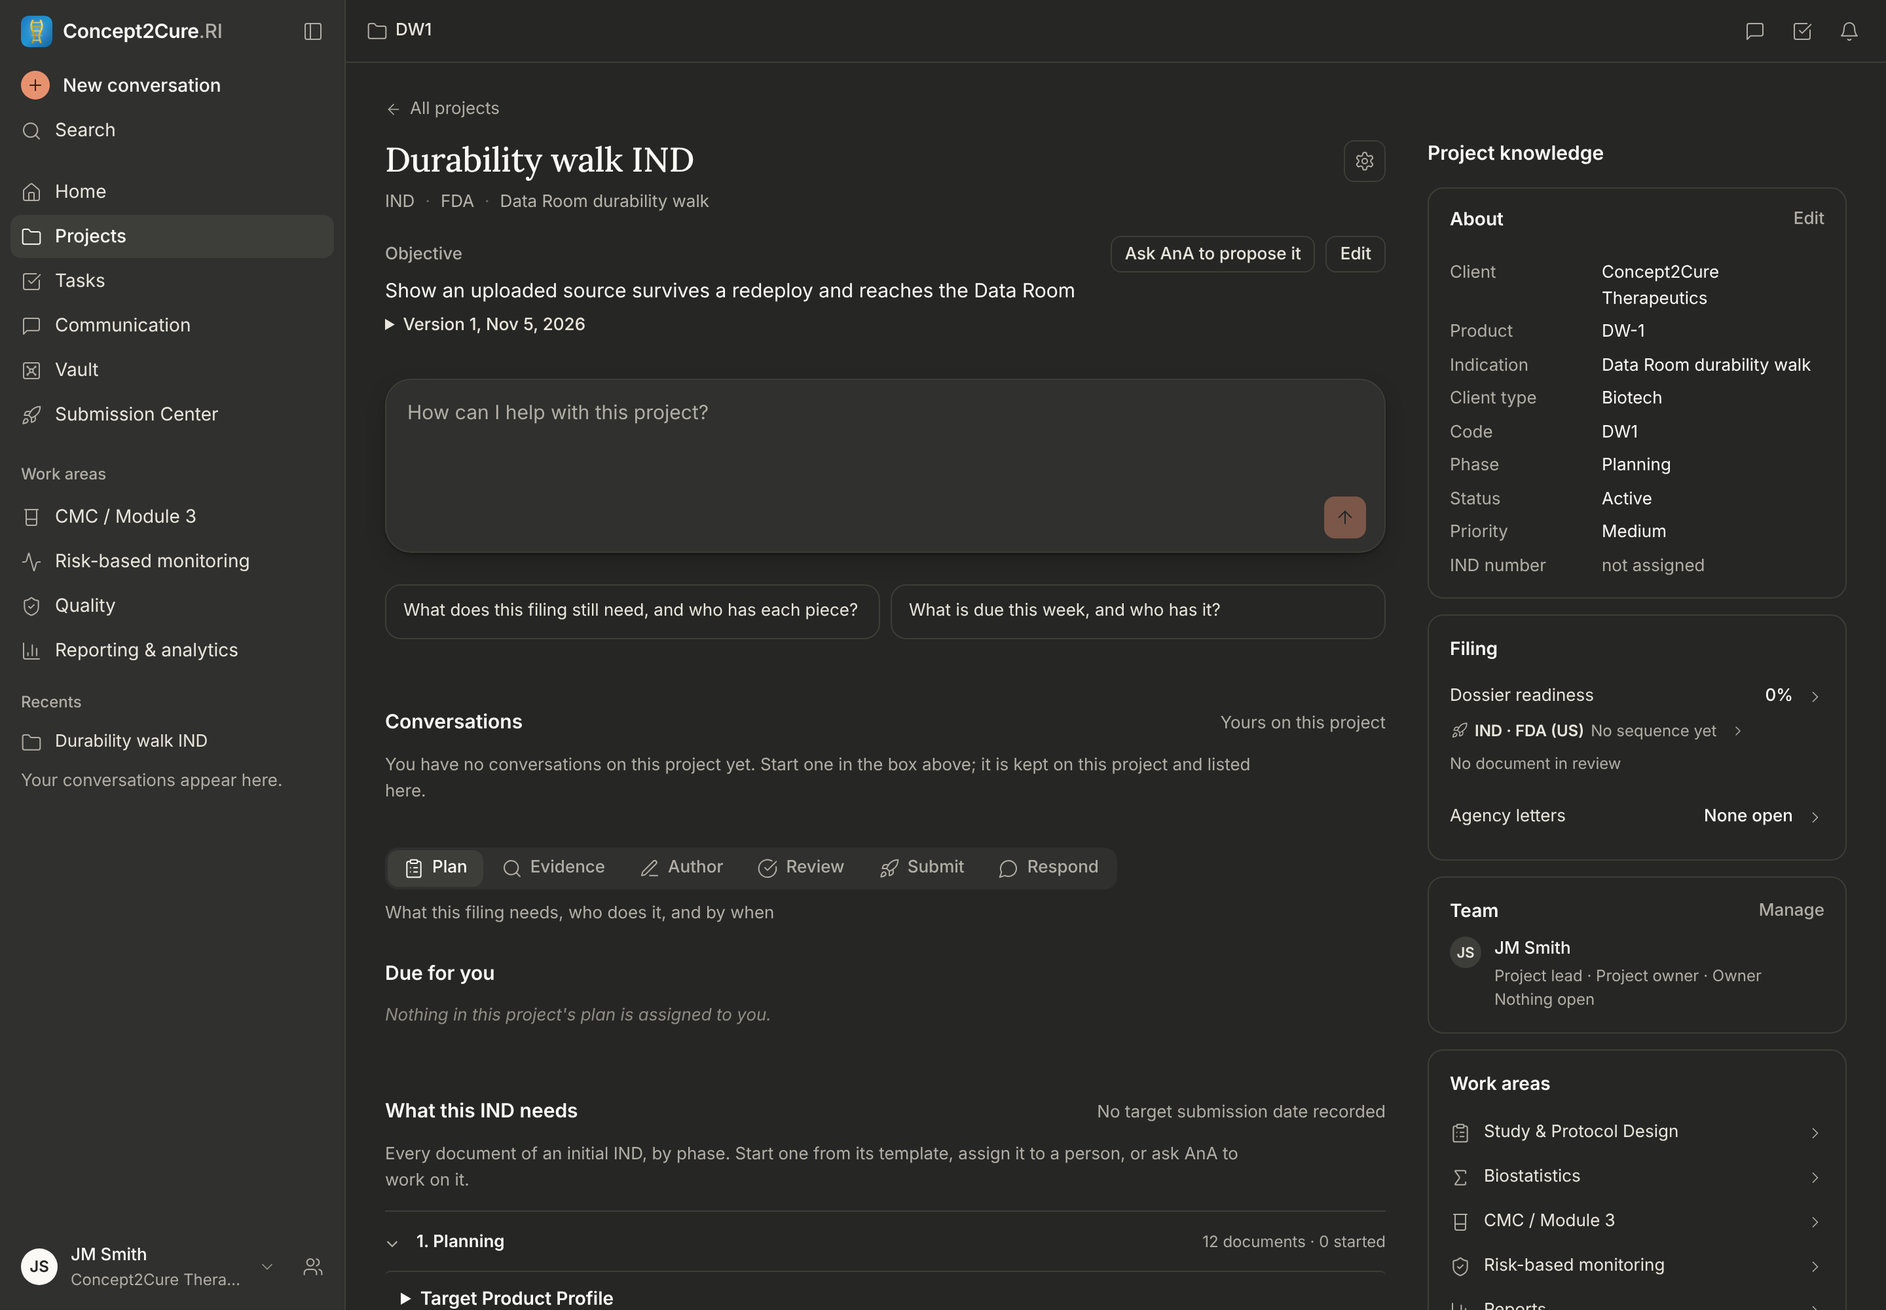
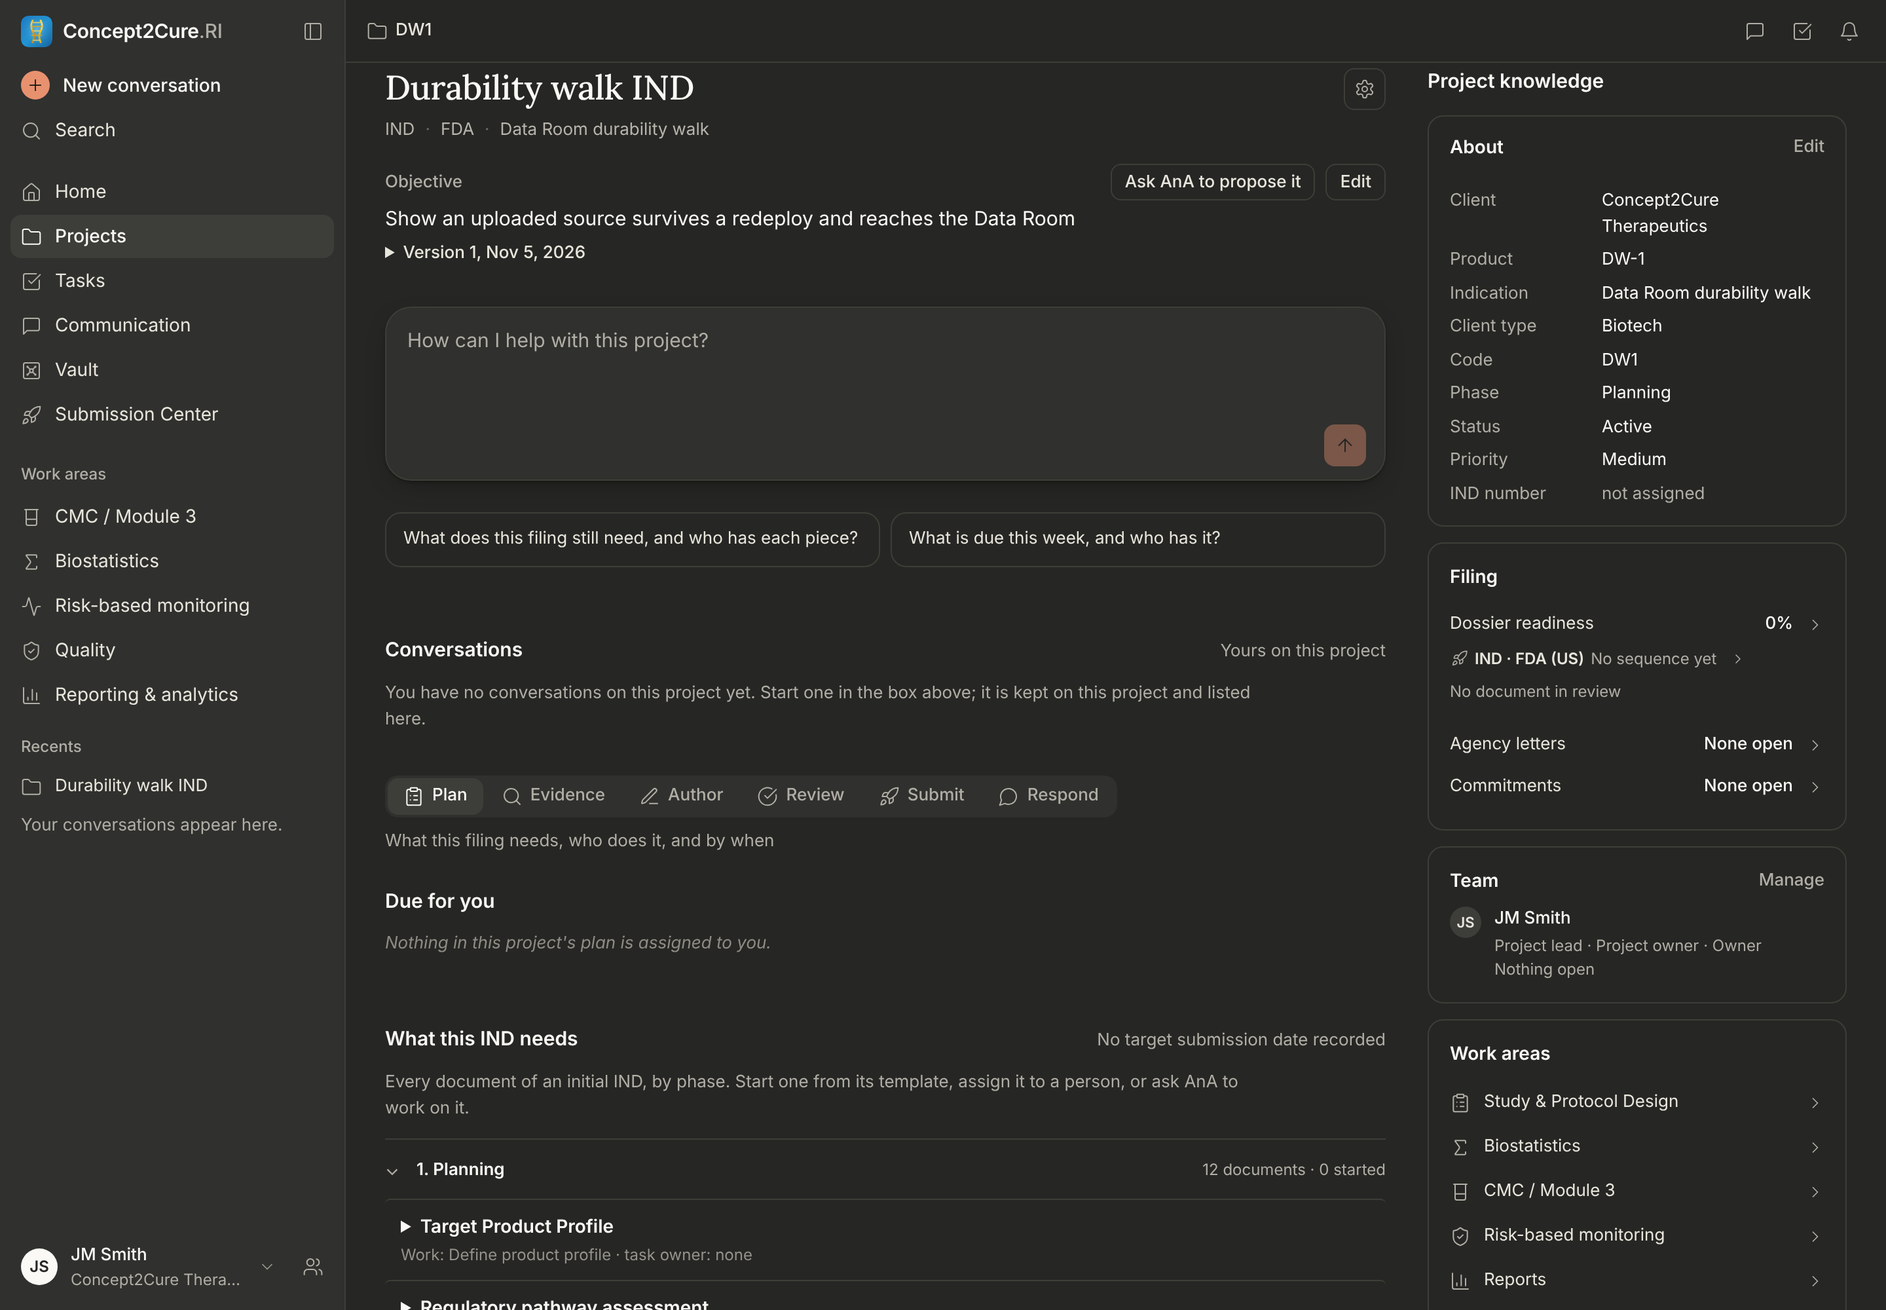
Project page: commitments to the agency on the Filing card; Activity is the Records card's last disclosure (D3-2b)
The second half of D3-2b (D3.md §4.8 items 2 and 7, §4.10):
- The page reads the project's commitments once, by the verified integer project id the route takes. Nothing is
  read until the team read verifies the id. The Filing card says them: none open, or the count, how many are
  overdue (the server's effective status) and the next due date. A failed read says so. The row opens Respond.
- The project's audit feed, already read once by the page, is the Records card's last disclosure, "Activity", on
  every step. It was a section of the Author step. Its rows and recorded reasons are unchanged, and it shows even
  when the records read fails.

The records read itself is lifted by D3-4 with its second reader (Evidence's Protocol), not before.

Tests: 3 red against the first half, green here. 80 of 83 project suites pass. projectHomeStageCss fails as on
trunk. projectCreationDoors.contract and projectDestination fail on trunk without this change; they follow the
Vault session's adb1c00cba and 5144702d21. Typecheck 0 errors, the lint ratchet clean, the gates pass. Walked:
"Commitments: None open" from the real route, and three acts under Activity.

Plan: D3
Completes: client/src/concept2cure/v2/surfaces/ProjectRecords.tsx

Claude-Session: https://claude.ai/code/session_01QoxbLcnW5jPvJSjjKQtvTA

diff --git a/client/src/concept2cure/v2/surfaces/ProjectHome.tsx b/client/src/concept2cure/v2/surfaces/ProjectHome.tsx
@@ -42,6 +42,7 @@ import { sourceReadView } from '@shared/data-room-processing-status';
 import { ProjectTeamCard, ProjectTeamDrawer, PROJECT_TEAM_AUTHORITY_NOTE, useProjectTeam } from './ProjectTeamResponsibilities';
 import type { ProjectTeamMember } from '@shared/project-team';
 import { useAgencyInbox, type CommRow } from './AgencyInbox';
+import { isCommitmentsPayload, type CommitmentsPayload } from './CommitmentRow';
 import { ProjectSide } from './ProjectSide';
 import { ProjectClientReview } from './ProjectClientReview';
 import { ProjectTeamSharing } from './ProjectTeamSharing';
@@ -880,6 +881,18 @@ function teamWork(work: DataState<WorkViewRow>, team: ProjectTeamMember[] | null
 
 /** The Filing card's agency letters (D3-2b, D3.md §4.8 item 2), from the page's one inbox read: open letters and the
  *  next response due. A read not in, or failed, says so. */
+/** The Filing card's commitments to the agency (D3-2b, D3.md §4.8 item 2): open ones, how many are overdue (the
+ *  server's effective status), and the next due date. A read not in, or failed, says so. */
+function commitmentsWords(state: DataState<CommitmentsPayload>): string {
+  if (state.loading) return 'Reading…';
+  if (state.error || !state.data) return 'Could not be read';
+  const open = state.data.commitments.filter(c => !['fulfilled', 'waived', 'released'].includes(c.effectiveStatus));
+  if (!open.length) return 'None open';
+  const overdue = open.filter(c => c.effectiveStatus === 'overdue').length;
+  const next = open.map(c => c.due_date?.slice(0, 10)).filter((day): day is string => Boolean(day)).sort()[0];
+  return `${open.length} open${overdue ? ` · ${overdue} overdue` : ''}${next ? ` · next due ${dayWords(next)}` : ''}`;
+}
+
 function lettersWords(live: { loading: boolean; error?: unknown }, comms: CommRow[]): string {
   if (live.loading) return 'Reading…';
   if (live.error) return 'Could not be read';
@@ -1545,8 +1558,39 @@ const filingCopyIn = (docs: ListRead) => (filingId: string): RowCopy => {
   return editingCopyOf(rows, filingId, (d) => d.filingDocumentId);
 };
 
+/** The project's audit read, every act with its actor, its words and the reason recorded with it (21 CFR 11.10(e)).
+ *  Since D3-2b it is the Records card's last disclosure, "Activity", on every step (it was a section of Author). */
+function ProjectActivity({ activityState }: { activityState: DataState<{ activity: ActivityRow[] }> }) {
+  return (
+    <Anchored
+      state={activityState}
+      loadingText="Loading activity…"
+      errorTitle="Couldn't load project activity"
+      errorHint="The project audit read didn't respond. Sign in and retry, or check the service is reachable."
+      emptyTitle="No recorded activity yet"
+      emptyHint="Audited actions on this project appear here as they happen."
+      isEmpty={(d) => (d.activity ?? []).length === 0}
+      render={(d) => (
+        <div className="pj-acts">
+          {(d.activity ?? []).map((a, i) => (
+            <div key={i} className="pj-act">
+              <span className="pj-act-w">{a.actor_name ?? (a.actor_id != null ? 'User ' + a.actor_id : 'System')}</span>
+              <span className="pj-act-t">
+                {activityLabel(a)}
+                {/* The reason recorded with the act, available for review (21 CFR 11.10(e)). */}
+                {a.reason ? <span data-testid="pj-act-reason">. Reason: {a.reason}</span> : null}
+              </span>
+              <span className="pj-act-n">{fmtWhen(a.occurred_at) ?? ''}</span>
+            </div>
+          ))}
+        </div>
+      )}
+    />
+  );
+}
+
 function AuthorWorkspace({
-  pid, dossier, onNav, onAsk, activityState, docs, onRetryDocs, onOpenDoc, cmcComposes,
+  pid, dossier, onNav, onAsk, docs, onRetryDocs, onOpenDoc, cmcComposes,
 }: {
   /** regulatory_programs UUID — scopes the records to this project. */
   pid: string | null;
@@ -1554,7 +1598,6 @@ function AuthorWorkspace({
   dossier: DossierState;
   onNav: (id: string) => void;
   onAsk: (question: string) => void;
-  activityState: DataState<{ activity: ActivityRow[] }>;
   /** GET /api/authoring/docs?programId= — the project's documents. */
   docs: ListRead;
   onRetryDocs: () => void;
@@ -1577,36 +1620,6 @@ function AuthorWorkspace({
             card in Project knowledge, on every step (D3-2a). */}
         <ModuleCompletion read={dossier} copyFor={copyFor} onOpen={onOpenDoc} onAsk={onAsk} />
 
-        {/* The project's audit read. Its team and tasks are on Plan (CLIENT_JOURNEY pass 3). */}
-        <section className="pj-sec">
-          <div className="pj-sec-h"><h2>Activity</h2></div>
-          <div>
-            <Anchored
-              state={activityState}
-              loadingText="Loading activity…"
-              errorTitle="Couldn't load project activity"
-              errorHint="The project audit read didn't respond. Sign in and retry, or check the service is reachable."
-              emptyTitle="No recorded activity yet"
-              emptyHint="Audited actions on this project appear here as they happen."
-              isEmpty={(d) => (d.activity ?? []).length === 0}
-              render={(d) => (
-                <div className="pj-acts">
-                  {(d.activity ?? []).map((a, i) => (
-                    <div key={i} className="pj-act">
-                      <span className="pj-act-w">{a.actor_name ?? (a.actor_id != null ? 'User ' + a.actor_id : 'System')}</span>
-                      <span className="pj-act-t">
-                        {activityLabel(a)}
-                        {/* The reason recorded with the act, available for review (21 CFR 11.10(e)). */}
-                        {a.reason ? <span data-testid="pj-act-reason">. Reason: {a.reason}</span> : null}
-                      </span>
-                      <span className="pj-act-n">{fmtWhen(a.occurred_at) ?? ''}</span>
-                    </div>
-                  ))}
-                </div>
-              )}
-            />
-          </div>
-        </section>
     </>
   );
 }
@@ -1764,6 +1777,10 @@ function ProjectWorkspace({ onNav, onAsk, selection: sel, actor: teamActor, sess
   const work = useProjectWork(pid, workVersion);
   const [inboxToast, fireInbox] = useToast();
   const inbox = useAgencyInbox(pid, fireInbox);
+  /* The project's commitments to the agency, by the verified integer project id the route takes (D3.md §4.10;
+     null until the team read verifies it). The Filing card says them; Respond's Commitments (D3-4) will read the same. */
+  const commitPath = sharingProjectId !== null ? `/api/concept2cure/projects/${sharingProjectId}/commitments` : null;
+  const commitments = useLiveData<CommitmentsPayload>(commitPath, [commitPath], isCommitmentsPayload);
   /* The Team drawer (D3.md §4.9), opened by the Team card's "Manage"; a project switch closes it. */
   const [teamOpen, setTeamOpen] = React.useState(false);
   React.useEffect(() => { setTeamOpen(false); }, [pid]);
@@ -2171,7 +2188,6 @@ function ProjectWorkspace({ onNav, onAsk, selection: sel, actor: teamActor, sess
               dossier={dossier}
               onNav={onNav}
               onAsk={ask}
-              activityState={activityState}
               docs={docsRead}
               onRetryDocs={reloadDocs}
               onOpenDoc={openDocument}
@@ -2244,6 +2260,13 @@ function ProjectWorkspace({ onNav, onAsk, selection: sel, actor: teamActor, sess
                   <span className="pj-k-row-v">{lettersWords(inbox.live, inbox.comms)}</span>
                   {I.right}
                 </button>
+                {commitPath && (
+                  <button type="button" className="pj-k-row" aria-label={`Commitments: ${commitmentsWords(commitments)}`} onClick={() => chooseStage('respond')}>
+                    <span className="pj-k-row-l">Commitments</span>
+                    <span className="pj-k-row-v">{commitmentsWords(commitments)}</span>
+                    {I.right}
+                  </button>
+                )}
               </section>
             )}
             {/* The team, on every step (D3-3; it left Plan). "Manage" opens the Team drawer. */}
@@ -2252,7 +2275,7 @@ function ProjectWorkspace({ onNav, onAsk, selection: sel, actor: teamActor, sess
             <C2CToast msg={inboxToast} />
             <ProjectHeaderDoors pid={pid} prog={prog} deviceFiling={deviceFiling} cmcComposes={cmcComposes} available={available} onNav={onNav} />
             {/* What AnA knows, the skills it follows here, and the project's records: on every step (D3-2a). */}
-            <ProjectSide pid={pid} onAsk={onAsk} />
+            <ProjectSide pid={pid} onAsk={onAsk} activity={<ProjectActivity activityState={activityState} />} />
           </aside>
           {teamOpen && pid && (
             <ProjectTeamDrawer programId={pid} state={teamState} onRetry={reloadTeam} onClose={() => setTeamOpen(false)}

diff --git a/client/src/concept2cure/v2/__tests__/projectHomeTeamSetup.test.tsx b/client/src/concept2cure/v2/__tests__/projectHomeTeamSetup.test.tsx
@@ -196,13 +196,21 @@ describe('one read, several readers (D3-2b)', () => {
     id, sourceType: 'agency_letter', communicationType: 'information_request', sourceChannel: 'email', linkedSectionCodes: [],
     receivedDate: '2099-01-02', dueDate, urgency: 'high', responseRequired: true, extractedIssues: [], humanReviewStatus: 'pending', closureStatus,
   });
-  function serveAll(work: Response = ok(WORK), comms: Response = ok([letter('c1', 'open', '2099-02-20'), letter('c2', 'closed', '2099-01-01')])) {
+  const COMMIT_URL = '/api/concept2cure/projects/51/commitments';
+  const commitment = (id: number, effectiveStatus: string, due_date: string | null) => ({
+    id, commitment_type: 'post_marketing', description: `Commitment ${id}`, regulatory_basis: null, due_date, status: effectiveStatus,
+    fulfilled_date: null, effectiveStatus, project_id: 51, fulfilment: { state: 'not_started', rule: { signatureRequired: false } },
+  });
+  const COMMITMENTS = { commitments: [commitment(1, 'open', '2099-12-01'), commitment(2, 'overdue', '2020-03-01'), commitment(3, 'fulfilled', '2019-01-01')] };
+  function serveAll(work: Response = ok(WORK), comms: Response = ok([letter('c1', 'open', '2099-02-20'), letter('c2', 'closed', '2099-01-01')]),
+    commits: Response = ok(COMMITMENTS)) {
     request.mockImplementation(async (_method: string, path: string) => {
       if (path === `/api/c2c/projects/${PID}`) return ok({ id: PID, name: 'Programme A' });
       if (path === `/api/c2c/projects/${PID}/team`) return ok(TEAM);
       if (path === URL) return ok(sharing());
       if (path === WORK_URL) return work;
       if (path === COMMS_URL) return comms;
+      if (path === COMMIT_URL) return commits;
       return ok({});
     });
   }
@@ -243,5 +251,21 @@ describe('one read, several readers (D3-2b)', () => {
     await screen.findByRole('region', { name: 'Tasks and approvals' });
     expect(calls(WORK_URL)).toBe(1);
     expect(calls(COMMS_URL)).toBe(1);
+  });
+
+  /* D3-2b, second half: the commitments to the agency, read by the verified integer project id the route takes. */
+  it('the Filing card says the open commitments, how many are overdue and the next due date, and opens Respond', async () => {
+    serveAll(); render(<ProjectHome {...props} />);
+    const filing = await screen.findByRole('region', { name: /^Filing$/ });
+    const row = await within(filing).findByRole('button', { name: 'Commitments: 2 open · 1 overdue · next due Mar 1, 2020' });
+    expect(request.mock.calls.some(([, path]) => path === COMMIT_URL)).toBe(true);
+    fireEvent.click(row);
+    await waitFor(() => expect(document.querySelector('.pj-lc-stage[aria-current="step"]')?.textContent?.trim()).toBe('Respond'));
+  });
+
+  it('a commitments read that failed says so, never "None open"', async () => {
+    serveAll(undefined, undefined, { ...ok({}), ok: false, status: 503 } as Response); render(<ProjectHome {...props} />);
+    const filing = await screen.findByRole('region', { name: /^Filing$/ });
+    expect(await within(filing).findByRole('button', { name: 'Commitments: Could not be read' })).toBeTruthy();
   });
 });

diff --git a/client/src/concept2cure/v2/surfaces/ProjectRecords.tsx b/client/src/concept2cure/v2/surfaces/ProjectRecords.tsx
@@ -81,7 +81,7 @@ function countLabel(section: RecordSection | undefined): string {
 /** The project's records as one card in Project knowledge, on every step (D3-2a, D3.md §4.8 item 7). Each store is
  *  a closed disclosure whose summary says its count ("Vault documents · 6") or that it is not available, so the card
  *  is a short list until a person opens a store. It moved here from the Author step's "Records in this project". */
-export function ProjectRecords({ pid }: { pid: string }) {
+export function ProjectRecords({ pid, activity }: { pid: string; activity?: React.ReactNode }) {
   const state = useLiveData<ProjectRecordsRead>(`/api/c2c/projects/${pid}/records`);
   const records = state.data?.records ?? {};
   return (
@@ -100,6 +100,14 @@ export function ProjectRecords({ pid }: { pid: string }) {
             </details>
           );
         })}
+      {/* The project's audit read, last (D3-2b): every act, its actor and its recorded reason. It was a section of
+          the Author step. It is read by the page, so a failed records read does not hide it. */}
+      {activity && (
+        <details className="pj-more" data-records-section="activity">
+          <summary>Activity</summary>
+          {activity}
+        </details>
+      )}
     </section>
   );
 }

diff --git a/client/src/concept2cure/v2/__tests__/projectActivityReason.test.tsx b/client/src/concept2cure/v2/__tests__/projectActivityReason.test.tsx
@@ -47,6 +47,11 @@ describe('the Project home feed names a governed act and its reason', () => {
     render(<ProjectHome surface={{ id: 'project-home', label: 'Project' } as any} onAsk={vi.fn()} onNav={vi.fn()} segment="biopharma" />);
     const reason = await screen.findByTestId('pj-act-reason');
     expect(reason.textContent).toBe('. Reason: The EU filing starts this quarter');
+    /* D3-2b: the feed is the Records card's last disclosure, "Activity", in Project knowledge on every step. */
+    const disclosure = reason.closest('details[data-records-section="activity"]');
+    expect(disclosure?.querySelector('summary')?.textContent).toBe('Activity');
+    expect(disclosure?.closest('aside.pj-side')).toBeTruthy();
+    expect(document.querySelector('.pj-main')?.textContent ?? '').not.toMatch(/No recorded activity yet|Loading activity/);
     expect(reason.closest('.pj-act')?.textContent).toContain('Market added · EMA');
     expect(screen.getAllByTestId('pj-act-reason')).toHaveLength(1);
   });

diff --git a/client/src/concept2cure/v2/surfaces/ProjectSide.tsx b/client/src/concept2cure/v2/surfaces/ProjectSide.tsx
@@ -9,12 +9,12 @@ import { ProjectRecords } from './ProjectRecords';
 
    They were Author-only until 2026-11-06. The dossier's readiness card left this column then: its figure is the
    Filing card's first row, and its detail is on the Author step beside Module completion. */
-export function ProjectSide({ pid, onAsk }: { pid: string | null; onAsk?: (text: string) => void }) {
+export function ProjectSide({ pid, onAsk, activity }: { pid: string | null; onAsk?: (text: string) => void; activity?: React.ReactNode }) {
   return (
     <>
       <ProjectRecordedContext programId={pid} />
       {pid && <ProjectSkills projectRef={pid} onAsk={onAsk} />}
-      {pid && <ProjectRecords pid={pid} />}
+      {pid && <ProjectRecords pid={pid} activity={activity} />}
     </>
   );
 }

diff --git a/docs/evidence/DESIGN/D3/D3-2b/README.md b/docs/evidence/DESIGN/D3/D3-2b/README.md
@@ -34,8 +34,29 @@ instead of once per reader. No test file was added.
   While the read is out nothing is said, and a failed read is said once ("Open work could not be read."), never as
   "Nothing open".
 
-Next for D3-2b's other half: the records read lifted, with the Activity disclosure on the Records card, and the
-commitments read (keyed by the verified integer project id) on the Filing card.
+### Second half (same step, its own commit)
+
+- **Commitments.** The page reads the project's commitments to the agency once, by the verified integer project id
+  the route takes (`GET /api/concept2cure/projects/:projectId/commitments`, `isCommitmentsPayload`). It reads nothing
+  until the team read has verified the id. The Filing card gains "Commitments": "None open", or "2 open · 1 overdue ·
+  next due Mar 1, 2020". Overdue is the server's effective status. A failed read says "Could not be read". The row
+  opens Respond. Respond's own Commitments section is D3-4's.
+- **Activity.** The project's audit feed, already read once by the page, is the Records card's last disclosure,
+  "Activity", on every step. It was a section of the Author step. The rows, actors, recorded reasons and times are
+  unchanged, and it shows even when the records read fails.
+- **The records read itself is not lifted yet.** Today its one reader is the Records card. Its second reader,
+  Evidence's Protocol, is D3-4's, which lifts it with that reader, so this step adds no plumbing for a reader that
+  does not exist.
+
+Red first: `red/d3-2b-second-half-against-first.txt` (3 failing against the first half). Added cases: the
+commitments row (counts, overdue, next due, opens Respond); a failed commitments read; Activity as the Records card's
+last disclosure in the aside, with nothing of it left in the main column (`projectActivityReason.test.tsx`).
+
+In the running app (`walk.json`): "Commitments: None open" from the real route, and Activity lists the project's
+three recorded acts inside the Records card, at 1440 light and dark and 390 light.
+
+Found, not D3's: `projectCreationDoors.contract` (Vault.tsx's Projects index door) and `projectDestination` fail on
+trunk without this change. They follow the Vault session's `adb1c00cba` and `5144702d21`.
 
 ## Tests (red first: `red/d3-2b-tests-against-d3-2a.txt`, 4 failing against the D3-2a source)
 
